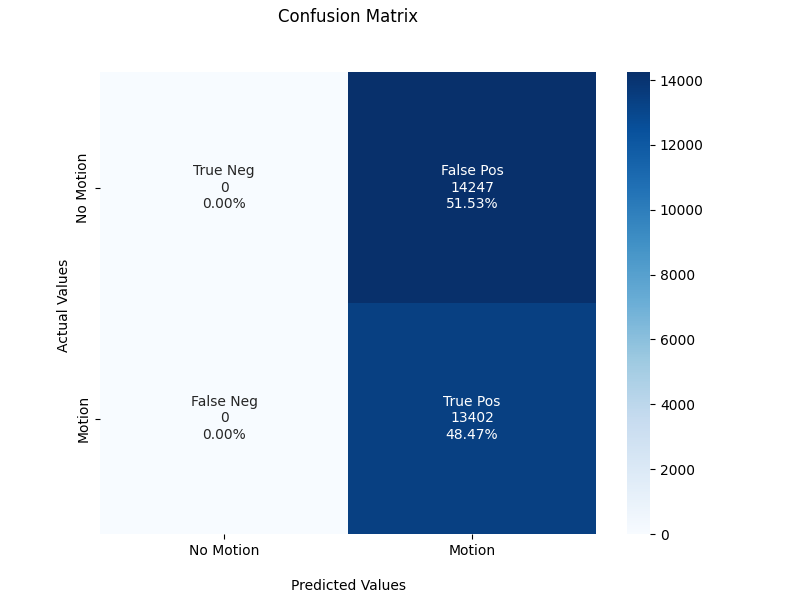
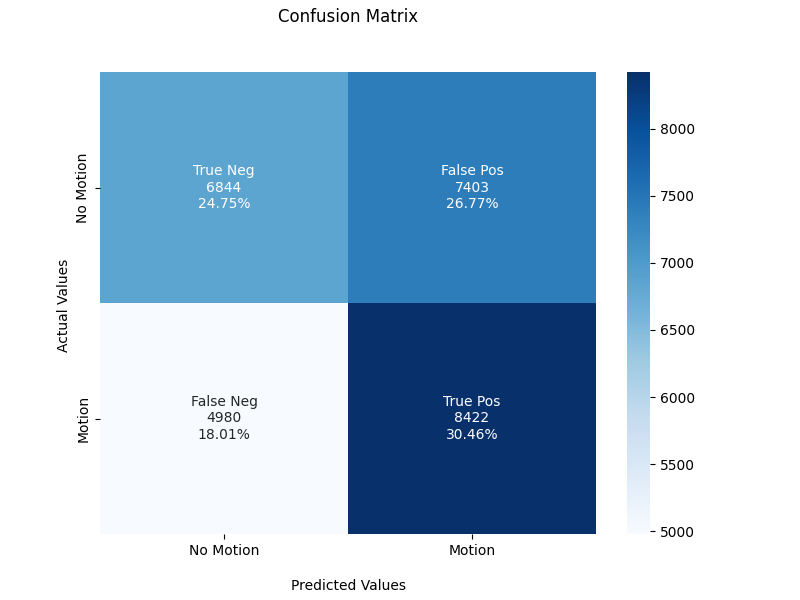
svm done

diff --git a/Python/classification/utils/utils.py b/Python/classification/utils/utils.py
@@ -1,9 +1,9 @@
 import pandas as pd
 import numpy as np
-from preprocessing import remove_trend_seasonal
+from preprocessing import remove_trend_seasonal, get_week_day, filter_day_periodicity
 
 
-def load_data(normalize=False, rmv_trend_seasonal=False):
+def load_data(normalize=False, rmv_trend_seasonal=False, normalise_time=False, filt = None):
     data_pd = pd.read_excel("data/Datasets_Group_B_v2.xlsx", "Classification")
     data_pd.dropna(inplace=True)
     total_size = len(data_pd)
@@ -12,6 +12,33 @@ def load_data(normalize=False, rmv_trend_seasonal=False):
     train_data = data_pd.iloc[:train_size].reset_index(drop=True)
     val_data = data_pd.iloc[train_size : train_size + val_size].reset_index(drop=True)
     test_data = data_pd.iloc[train_size + val_size :].reset_index(drop=True)
+    if filt:
+        filtered_train = filter_day_periodicity(
+            train_data.iloc[:, 5:-1].to_numpy(),
+            filter_type=filt,
+            filter_order=5,
+            rs=30,
+            cutoff_frequency=1 / (24 * 60),
+        )
+        train_data.iloc[:, 5:-1] = filtered_train
+
+        filtered_test = filter_day_periodicity(
+            test_data.iloc[:, 5:-1].to_numpy(),
+            filter_type=filt,
+            filter_order=5,
+            rs=30,
+            cutoff_frequency=1 / (24 * 60),
+        )
+        test_data.iloc[:, 5:-1] = filtered_test
+
+        filtered_val = filter_day_periodicity(
+            val_data.iloc[:, 5:-1].to_numpy(),
+            filter_type=filt,
+            filter_order=5,
+            rs=30,
+            cutoff_frequency=1 / (24 * 60),
+        )
+        val_data.iloc[:, 5:-1] = filtered_val
     if rmv_trend_seasonal:
         train_data = remove_trend_seasonal(train_data)
         val_data = remove_trend_seasonal(val_data)
@@ -26,6 +53,25 @@ def load_data(normalize=False, rmv_trend_seasonal=False):
         test_data.iloc[:, 5:-1] = min_max_normalization_pandas(
             test_data.iloc[:, 5:-1], min_values, max_values
         )
+    if normalise_time:
+        train_np, _ = get_numpy_features(train_data, no_time=False)
+        val_np, _ = get_numpy_features(val_data, no_time=False)
+        test_np, _ = get_numpy_features(test_data, no_time=False)
+
+        train_data['Weeks'] = get_week_day(train_np)
+        val_data['Weeks'] = get_week_day(val_np)
+        test_data['Weeks'] = get_week_day(test_np)
+        train_data.drop(columns=['Year', 'Month', 'Day'], inplace=True)
+        val_data.drop(columns=['Year', 'Month', 'Day'], inplace=True)
+        test_data.drop(columns=['Year', 'Month', 'Day'], inplace=True)
+        norms = [[1,7],[0,23],[0,59]]
+        to_normalize = ['Weeks','Hour','Minute']
+        for i in range(3):
+            train_data[to_normalize[i]] = min_max_normalization_pandas(train_data[to_normalize[i]], min_values=norms[i][0], max_values=norms[i][1])
+            val_data[to_normalize[i]] = min_max_normalization_pandas(val_data[to_normalize[i]], min_values=norms[i][0], max_values=norms[i][1])
+            test_data[to_normalize[i]] = min_max_normalization_pandas(test_data[to_normalize[i]], min_values=norms[i][0], max_values=norms[i][1])
+    
+
 
     return train_data, val_data, test_data
 

diff --git a/Python/classification/examples/SVM/svm_optuna.py b/Python/classification/examples/SVM/svm_optuna.py
@@ -1,0 +1,52 @@
+import sys
+
+sys.path.append("Python/classification/")
+
+from utils import utils
+from sklearn import svm
+import evaluation
+import os
+import optuna
+
+
+def objective(trial):
+    c = trial.suggest_float("C", 1e-2, 1e3, log=True)
+    kernel = trial.suggest_categorical("kernel", ["poly", "rbf", "sigmoid"])
+    gamma = trial.suggest_float("gamma", 1e-6, 1e-2, log=True)
+
+    # Create model and predict
+    clf = svm.SVC(kernel=kernel, C=c, gamma=gamma)
+    clf.fit(train_data, train_label)
+    predicts = clf.predict(test_data)
+
+    trial_number = trial.number
+    # Get the confusion matrix and save it
+    cf_matrix = evaluation.confusion_matrix(test_label, predicts)
+    evaluation.displayConfMatrix(
+        cf_matrix, save_name="SVM/results/svm_poly_rbf_sigmoid_{}.png".format(trial_number)
+    )
+
+    # Evaluate
+    accuracy, precision, recall, f1_score = evaluation.evaluate(
+        cf_matrix=cf_matrix
+    )
+    return accuracy, precision, recall, f1_score
+
+
+if __name__ == "__main__":
+    train, _, test = utils.load_data(normalize=True)
+    train_data, train_label = utils.get_numpy_features(train, no_time=True)
+    test_data, test_label = utils.get_numpy_features(test, no_time=True)
+    # Change this path to the path you wish your database to be stored
+    os.chdir("Python/classification/examples/")
+    study = optuna.create_study(
+        directions=["maximize", "maximize", "maximize", "maximize"],
+        storage="sqlite:///optuna_study.db",
+        study_name="svm_poly_rbf_sigmoid_study",
+        load_if_exists=True,
+    )
+    study.optimize(objective, n_trials=60)
+    # To then visualize the results on the database:
+    # please install optuna-dashboard (pip install optuna-dashboard)
+    # move to the directory with the database (Python/classification/examples/)
+    # run the command: optuna-dashboard sqlite:///optuna_studies.db

diff --git a/Python/classification/examples/KNN/knn_optuna.py b/Python/classification/examples/KNN/knn_optuna.py
@@ -16,26 +16,26 @@ def objective(trial):
     predicts = knn.predict(test_data, n_neighbours=n_neighbours, distance_type=p)
     cf_matrix = evaluation.confusion_matrix(test_label, predicts)
     evaluation.displayConfMatrix(
-        cf_matrix, save_name="KNN/results/knn_remove_trend_seasonal_{}.png".format(trial_number)
+        cf_matrix, save_name="KNN/results/knn_filt_butter_{}.png".format(trial_number)
     )
-    accuracy, precision, recall, f1_score, cohen = evaluation.evaluate(
+    accuracy, precision, recall, f1_score = evaluation.evaluate(
         cf_matrix=cf_matrix
     )
-    return accuracy, precision, recall, f1_score, cohen
+    return accuracy, precision, recall, f1_score
 
 
 if __name__ == "__main__":
-    train, _, test = utils.load_data(normalize=True, rmv_trend_seasonal=True)
+    train, _, test = utils.load_data(normalize=True, filt="butter")
     knn = models.kNN()
-    train_data, train_label = utils.get_numpy_features(train, no_time=True)
+    train_data, train_label = utils.get_numpy_features(train, no_time=False)
     knn.fit(train_data, train_label)
-    test_data, test_label = utils.get_numpy_features(test, no_time=True)
+    test_data, test_label = utils.get_numpy_features(test, no_time=False)
     # Change this path to the path you wish your database to be stored
     os.chdir("Python/classification/examples/")
     study = optuna.create_study(
-        directions=["maximize", "maximize", "maximize", "maximize", "maximize"],
+        directions=["maximize", "maximize", "maximize", "maximize"],
         storage="sqlite:///optuna_studies.db",
-        study_name="knn_neighbours_p_study_remove_trendseasonal",
+        study_name="knn_neighbours_p_study_filter_butterworth",
         load_if_exists=True,
     )
     study.optimize(objective, n_trials=40)

diff --git a/Python/classification/examples/data_analysis/remove_trend_seasonal.py b/Python/classification/examples/data_analysis/remove_trend_seasonal.py
@@ -29,27 +29,29 @@ if __name__ == "__main__":
     data['residual'] = residual
     data['combined_datetime'] = combined_datetime
     data.set_index('combined_datetime', inplace=True)
-
-    plt.figure(figsize=(12, 8))
-    plt.subplot(4, 1, 1)
-    plt.plot(data['temperature'] , label='Original')
-    plt.legend(loc='upper left')
-    plt.title('Original Time Series')
-
-    plt.subplot(4, 1, 2)
-    plt.plot(data['trend'], label='Trend')
-    plt.legend(loc='upper left')
-    plt.title('Trend Component')
-
-    plt.subplot(4, 1, 3)
-    plt.plot(data['seasonal'], label='Seasonal')
-    plt.legend(loc='upper left')
-    plt.title('Seasonal Component')
-
-    plt.subplot(4, 1, 4)
-    plt.plot(data['residual'], label='Residual')
-    plt.legend(loc='upper left')
-    plt.title('Residual Component')
-
-    plt.tight_layout()
+    plt.plot(data['temperature'].iloc[:1440*15])
     plt.show()
+
+    # plt.figure(figsize=(12, 8))
+    # plt.subplot(4, 1, 1)
+    # plt.plot(data['temperature'] , label='Original')
+    # plt.legend(loc='upper left')
+    # plt.title('Original Time Series')
+
+    # plt.subplot(4, 1, 2)
+    # plt.plot(data['trend'], label='Trend')
+    # plt.legend(loc='upper left')
+    # plt.title('Trend Component')
+
+    # plt.subplot(4, 1, 3)
+    # plt.plot(data['seasonal'], label='Seasonal')
+    # plt.legend(loc='upper left')
+    # plt.title('Seasonal Component')
+
+    # plt.subplot(4, 1, 4)
+    # plt.plot(data['residual'], label='Residual')
+    # plt.legend(loc='upper left')
+    # plt.title('Residual Component')
+
+    # plt.tight_layout()
+    # plt.show()

diff --git a/Python/classification/correct_cohens.py b/Python/classification/correct_cohens.py
@@ -1,0 +1,32 @@
+import sys
+
+sys.path.append("Python/classification/")
+
+import optuna
+import os
+
+def objective(trial):
+    n_neighbours = trial.suggest_int("n_neighbours", 1, 500)
+    p = trial.suggest_int("p", 1, 20)
+    if prune:
+        raise optuna.TrialPruned()
+    return accuracy, precision, recall, f1_score
+
+if __name__ == "__main__":
+    os.chdir("Python/classification/examples/")
+    or_study = optuna.load_study(storage="sqlite:///optuna_studies.db",study_name="svm_poly_rbf_sigmoid_study",)
+    study = optuna.create_study(
+        directions=["maximize", "maximize", "maximize", "maximize"],
+        storage="sqlite:///optuna_study.db",
+        study_name="svm_poly_rbf_sigmoid_study",
+        load_if_exists=True,
+    )
+    for tri in or_study.trials:
+        prune = False
+        try:
+            accuracy, precision, recall, f1_score, _ = tri.values
+        except:
+            prune = True
+        study.enqueue_trial(tri.params)
+        study.optimize(objective, n_trials=1)
+

diff --git a/Python/classification/evaluation/evaluate.py b/Python/classification/evaluation/evaluate.py
@@ -37,19 +37,9 @@ def accuracy(cf_matrix):
     return (tp + tn) / (tp + tn + fp + fn)
 
 
-def cohen_kappa(cf_matrix):
-    tp = cf_matrix[1][1]
-    fp = cf_matrix[0][1]
-    fn = cf_matrix[1][0]
-    tn = cf_matrix[0][0]
-    if (tp + fp) * (tp + fn) * (tn + fp) * (tn + fn) == 0:
-        return 0
-    return 2 * (tp * tn - fp * fn) / ((tp + fp) * (tp + fn) * (tn + fp) * (tn + fn))
-
-
 def evaluate(cf_matrix):
     acc = accuracy(cf_matrix)
     precision, recall, f1_score = precision_recall_f1_score(cf_matrix)
-    cohen = cohen_kappa(cf_matrix)
 
-    return acc, precision, recall, f1_score, cohen
+
+    return acc, precision, recall, f1_score

diff --git a/Python/classification/examples/data_analysis/normalise_time.py b/Python/classification/examples/data_analysis/normalise_time.py
@@ -3,15 +3,17 @@ import sys
 sys.path.append("Python/classification/")
 
 import utils
-import preprocessing
-import seaborn as sns
-import evaluation
 
 
 if __name__ == "__main__":
-    train, val, test = utils.load_data()
+    train, val, test = utils.load_data(normalise_time=True)
     train_data, train_label = utils.get_numpy_features(train, no_time=False)
     val_data, val_label = utils.get_numpy_features(val, no_time=False)
     test_data, test_label = utils.get_numpy_features(test, no_time=False)
-    weeks = preprocessing.get_week_day(test_data)
+    print(train)
+    print(train_data.shape)
+
+
+
+
     

diff --git a/Python/classification/examples/data_analysis/weekdays_vs_hours.py b/Python/classification/examples/data_analysis/weekdays_vs_hours.py
@@ -4,7 +4,6 @@ sys.path.append("Python/classification/")
 
 import utils
 import preprocessing
-import seaborn as sns
 import evaluation
 
 
